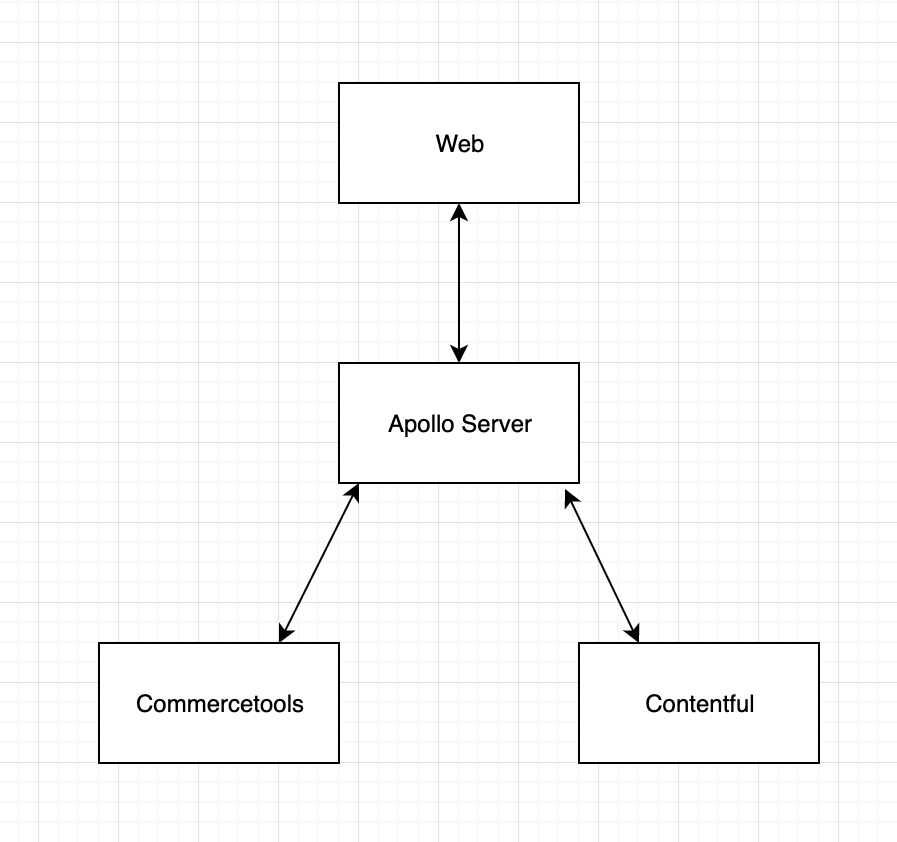
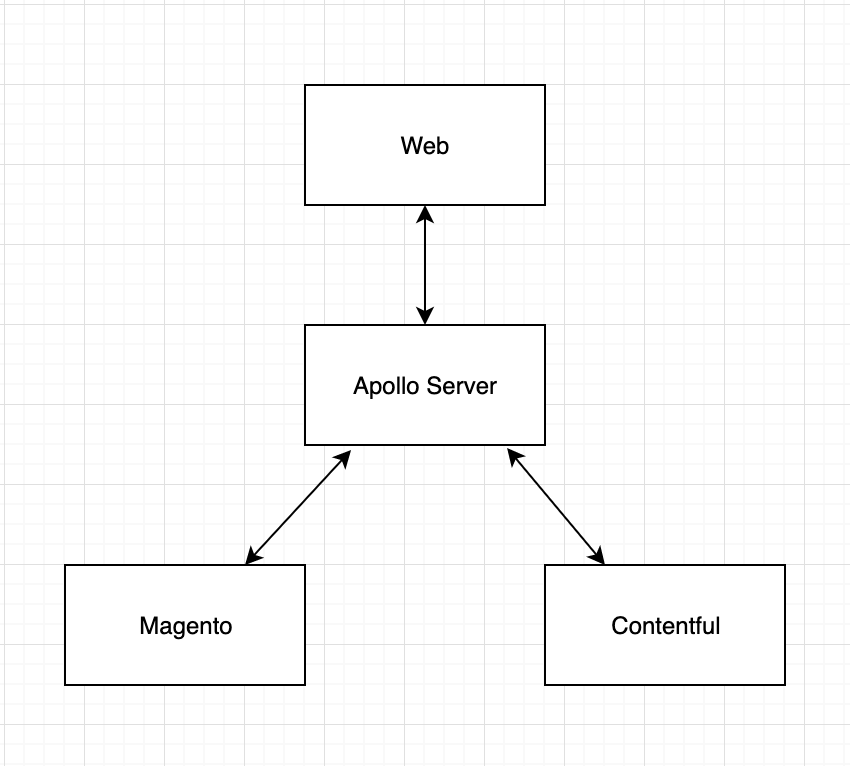
Magento GraphQL + Contentful GraphQL

diff --git a/src/server.js b/src/server.js
@@ -1,9 +1,9 @@
 require('dotenv').config();
-import { ApolloServer, AuthenticationError } from 'apollo-server';
+import { ApolloServer } from 'apollo-server';
 import { mergeSchemas } from '@graphql-tools/schema';
 import {
-    getContentfulSchema,
-    getCommercetoolsSchema
+    getMagentoSchema,
+    getContentfulSchema
 } from './introspection';
 
 const port = process.env.PORT || 4000;
@@ -12,8 +12,8 @@ const port = process.env.PORT || 4000;
     try {
         const allSchemas = await Promise.all(
             [
+                getMagentoSchema(),
                 getContentfulSchema(),
-                getCommercetoolsSchema()
             ]
         );
 
@@ -21,15 +21,6 @@ const port = process.env.PORT || 4000;
             schema: mergeSchemas({
                 schemas: allSchemas,
             }),
-            context: async ({ req }) => {
-                const apiKey = req.headers['api-key'];
-
-                if (process.env.NODE_ENV === 'production' && apiKey !== process.env.API_KEY) {
-                    throw new AuthenticationError('Please check your api key.');
-                }
-
-                return { apiKey };
-            },
             introspection: process.env.NODE_ENV !== 'production',
         });
 

diff --git a/src/utils/executor.js b/src/utils/executor.js
@@ -8,7 +8,7 @@ const executor = (schema, token) => {
             method: 'POST',
             headers: {
                 'Content-Type': 'application/json',
-                'Authorization': token,
+                'Authorization': token || '',
             },
             body: JSON.stringify({ query, variables }),
         });

diff --git a/src/introspection/magento.js b/src/introspection/magento.js
@@ -1,0 +1,13 @@
+import { wrapSchema, executor } from '../utils';
+
+export const getMagentoSchema = () => {
+    const {
+        MAGENTO_SCHEMA,
+        MAGENTO_EXTENSION
+    } = process.env;
+
+    return wrapSchema(
+        executor(MAGENTO_SCHEMA),
+        MAGENTO_EXTENSION
+    );
+};

diff --git a/src/introspection/index.js b/src/introspection/index.js
@@ -1,2 +1,3 @@
+export { getMagentoSchema } from './magento';
 export { getContentfulSchema } from './contentful';
 export { getCommercetoolsSchema } from './commercetools';

diff --git a/README.md b/README.md
@@ -3,7 +3,7 @@
 This project creates a unified GraphQL schema from the following GraphQL APIs:
 
 1. Contentful
-2. Commercetools
+2. Magento
 
 This gives us the benefit of reducing multiple data queries for our data in a single request from one schema.
 
@@ -48,22 +48,10 @@ For more information: https://www.graphql-tools.com/docs/schema-wrapping
 
 ---
 
-**Commercetools**
+**Magento**
 -
 
-Following this link you can find information about the api access:
-https://docs.commercetools.com/merchant-center/api-clients
-
-Following this link you can find information regarding graphql:
-https://docs.commercetools.com/api/graphql
-
-***COMMERCETOOLS_SCOPES*** config in the .env file should be with the following options:
-1. Without a project key
-2. Separator should be comma instead of space
-
-***Example*** - manage_my_profile,manage_my_payments,manage_my_orders,create_anonymous_token
-
-Commercetools .env file has key *COMMERCETOOLS_EXTENSION*.\
+.env file has key *MAGENTO_EXTENSION*.\
 This extension renames your graphql objects in case if you have in two different schemas the same object names.\
 Keep it empty if you don't have the same object names in two different schemas.\
 For more information: https://www.graphql-tools.com/docs/schema-wrapping
